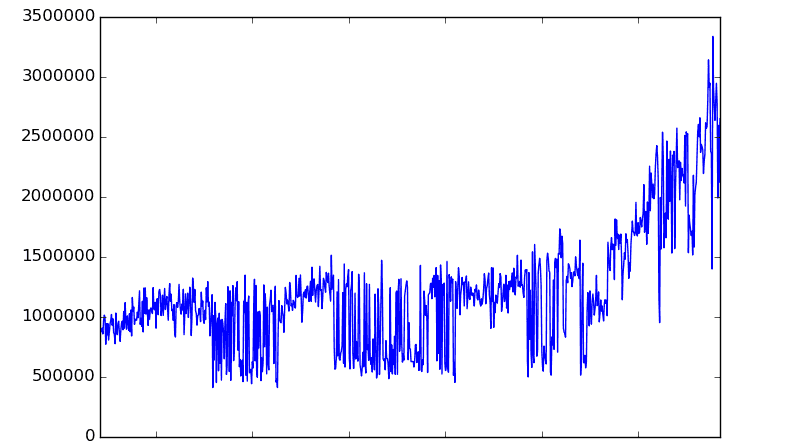
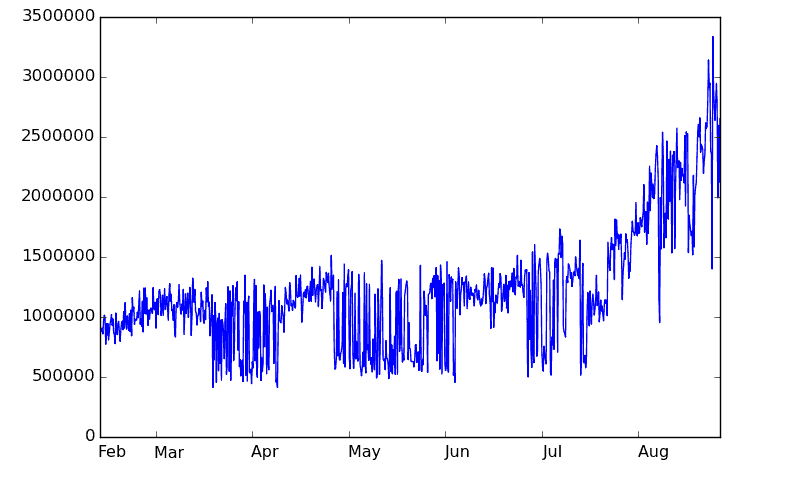
fixed image and typo

diff --git a/_posts/2015-09-01-scailing-graphite.md b/_posts/2015-09-01-scailing-graphite.md
@@ -154,7 +154,7 @@ patterns (data resolution and retention time) kept in `storage-schemas.conf`.
 We have been able to scale our Graphite cluster horizontally for the past few months using this sharded architecture.
 Currently we hit 3mln metrics/minute mark on 10 shards and the volume is still growing. Single node in cluster should
 not accept more than 600k – 700k metrics/minute, as behind this point data tends to get corrupted or lost.
-Of course these numbers apply to our cloud infrastructure, so your milage will vary.
+Of course these numbers apply to our cloud infrastructure, so your mileage will vary.
 
 ### Limitations
 
